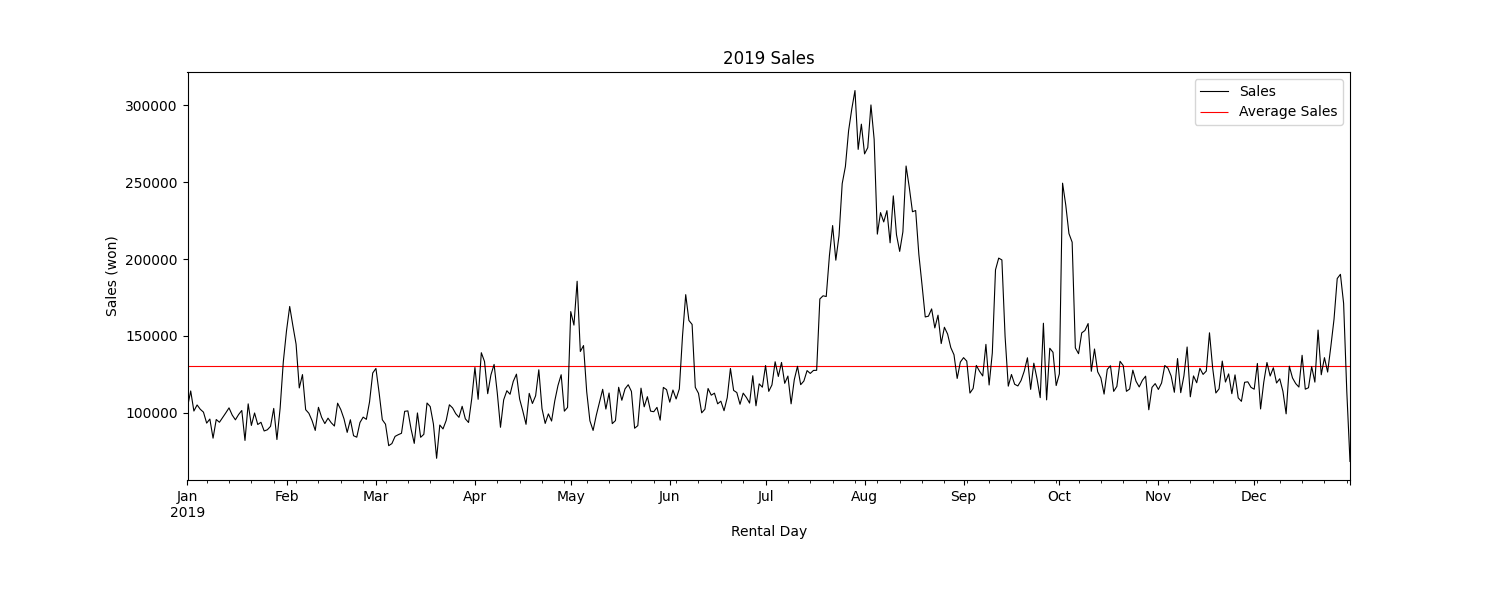
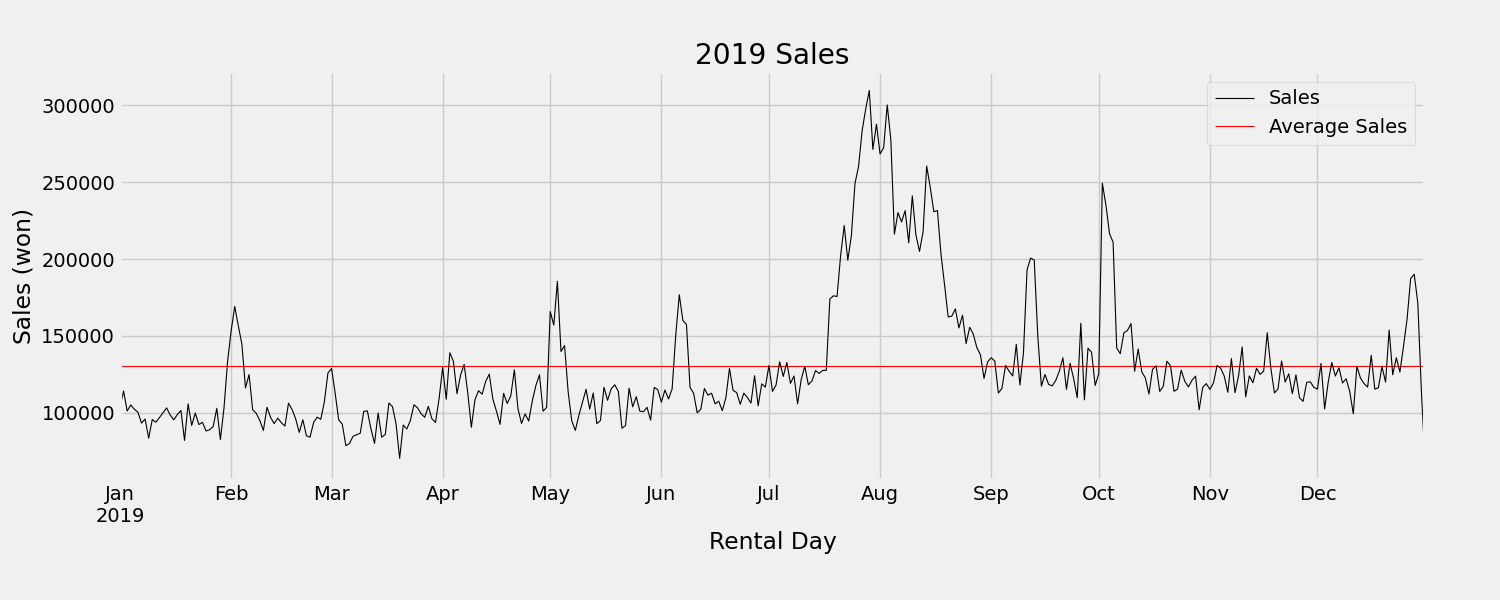
20.10.13

diff --git a/Preprocessing.py b/Preprocessing.py
@@ -3,12 +3,11 @@ import copy
 import warnings
 warnings.filterwarnings('ignore')
 
-import numpy as np
 import pandas as pd
 import matplotlib.pyplot as plt
 import matplotlib.dates as mdates
-# plt.style.use('fivethirtyeight')
-from scipy.interpolate import interp1d
+plt.style.use('fivethirtyeight')
+from sklearn.preprocessing import StandardScaler, MinMaxScaler
 
 class Preprocessing(object):
 
@@ -25,6 +24,7 @@ class Preprocessing(object):
         """
         :param path: file path
         :param file_format: csv / excel
+        :param delimiter
         :return: dataframe
         """
         file_path = os.path.join(self.root_dir, path)
@@ -72,7 +72,7 @@ class Preprocessing(object):
     @staticmethod
     def draw_histogram(df: pd.DataFrame, feature: str, title: str):
         plt.clf()
-        ax = df.hist(column=feature, grid=False, bins=10,
+        df.hist(column=feature, grid=False, bins=10,
                 xlabelsize=8, ylabelsize=8)
         plt.title(title)
         plt.savefig(os.path.join('.', 'img', title + '.png'))
@@ -81,8 +81,7 @@ class Preprocessing(object):
     def draw_line_plot(df: pd.DataFrame, x: str, y: str, interval: int, title: str):
         plt.clf()
         ax = df.plot.line(x=x, y=y,
-                          figsize=(15, 6),
-                          linewidth=0.8)
+                          figsize=(15, 6), linewidth=0.8, color='darkslategray')
         ax.set_xticks([])
         ax.set_xticks([], minor=True)
         ax.xaxis.set_major_locator(mdates.MonthLocator(interval=interval))
@@ -100,7 +99,7 @@ class Preprocessing(object):
         elif agg == 'sum':
             df_sampled = df[feature].resample(rule=rule).sum()
 
-        ax = df_sampled.plot.line(x=df_sampled.index, y=df_sampled.values,
+        df_sampled.plot.line(x=df_sampled.index, y=df_sampled.values,
                                   figsize=(15, 6), linewidth=0.4)
         # ax.set_xticks([])
         # ax.set_xticks([], minor=True)
@@ -109,9 +108,10 @@ class Preprocessing(object):
         plt.savefig(os.path.join('.', 'img', title + '.png'))
         # plt.show()
 
-    def draw_plot_with_hline(self, df: pd.DataFrame, line_feat: str, line_col: str, line_label: str,
+    @staticmethod
+    def draw_plot_with_hline(df: pd.DataFrame, line_feat: str, line_col: str, line_label: str,
                              h_line_val: float, hline_col: str, hline_label: str,
-                             xlabel:str, ylabel: str, title: str):
+                             xlabel: str, ylabel: str, title: str):
         plt.clf()
         ax = df[line_feat].plot.line(figsize=(15, 6), linewidth=0.8, color=line_col,
                                      label=line_label)
@@ -125,4 +125,29 @@ class Preprocessing(object):
         ax.legend()
         plt.title(title)
         plt.savefig(os.path.join('.', 'img', title + '.png'))
-        # plt.show()
+
+    @staticmethod
+    def scaler(df: pd.DataFrame, method: str):
+        if method == 'std':
+            scaler = StandardScaler()
+        elif method == 'mnmx':
+            scaler = MinMaxScaler()
+
+        scaled = scaler.fit_transform(df)
+        scaled_df = pd.DataFrame(scaled, index=df.index, columns=df.columns)
+
+        return scaled_df
+
+    @staticmethod
+    def draw_multi_plot(kind: str, df: pd.DataFrame, features: list, title: str):
+        fig, axes = plt.subplots(nrows=1, ncols=1)
+        n_feature = len(features)
+        figsize = (15, 6)
+
+        if kind == 'line':
+            for i in range(n_feature):
+                df[features[i]].plot.line(figsize=figsize, linewidth=0.8, alpha=0.7,
+                                          color='crimson', label=features[i], ax=axes)
+            axes.legend()
+            plt.title(title)
+            plt.savefig(os.path.join('.', 'img', title + '.png'))
